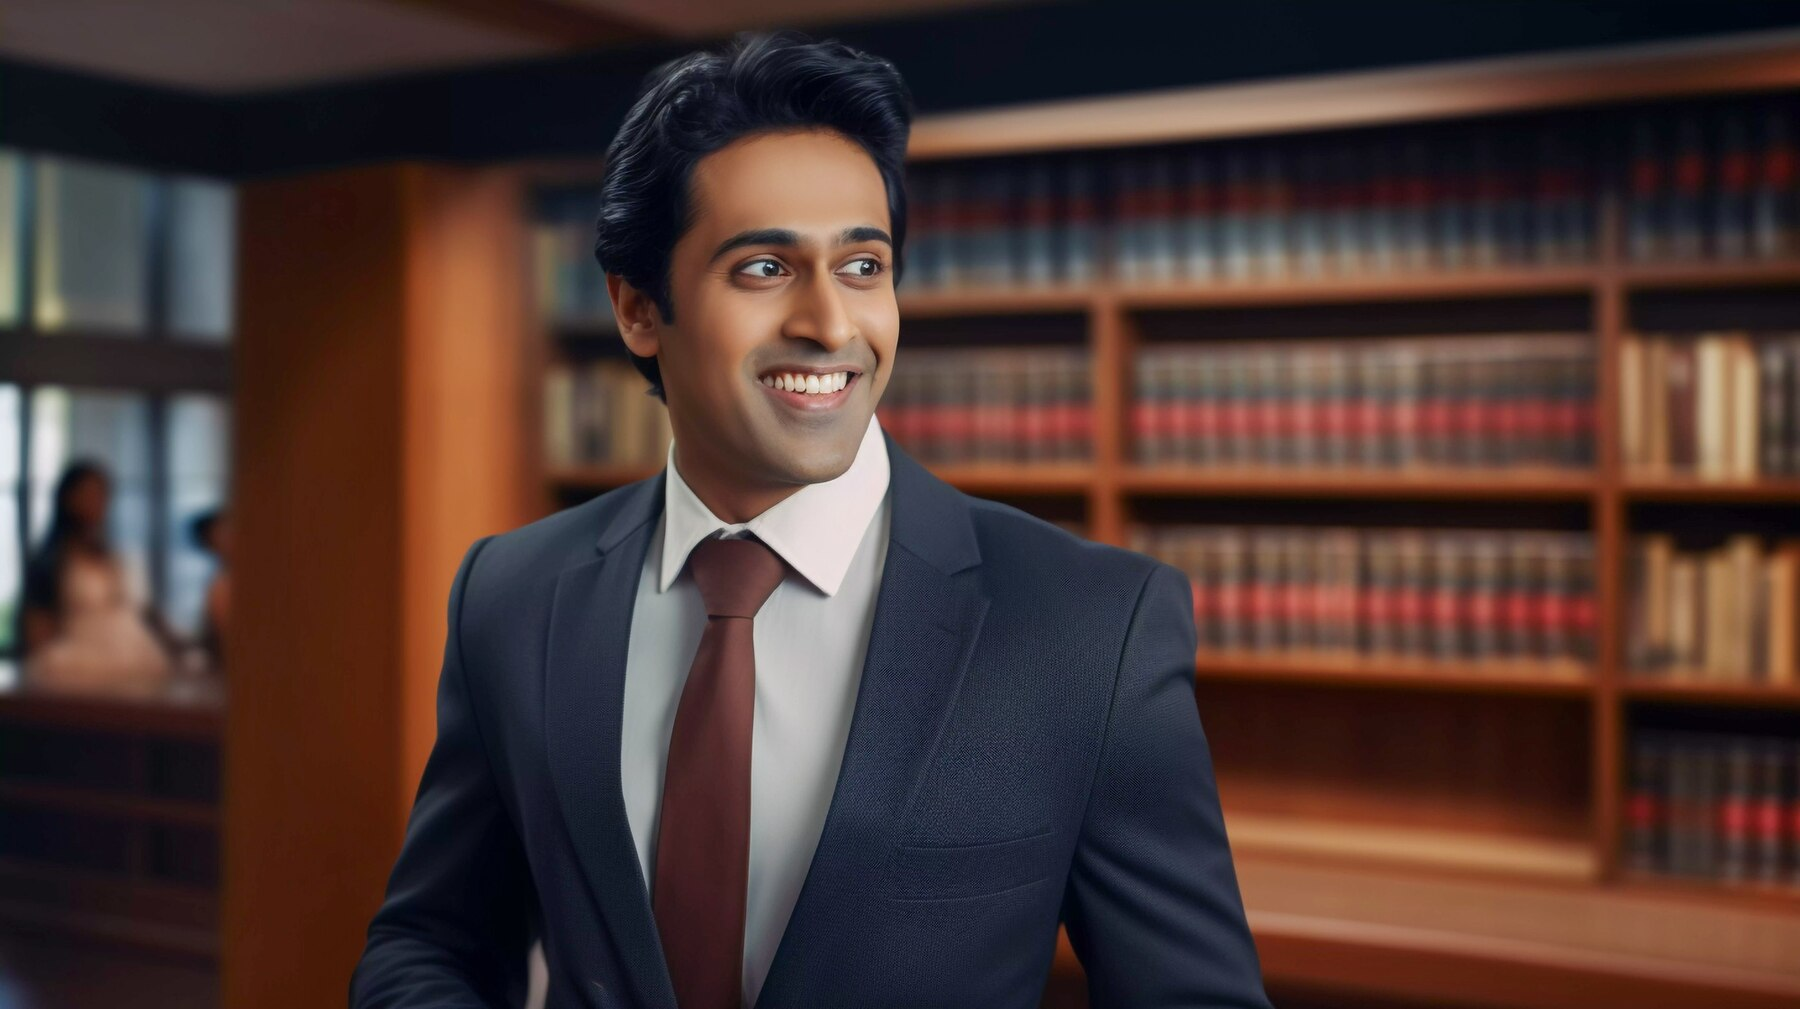
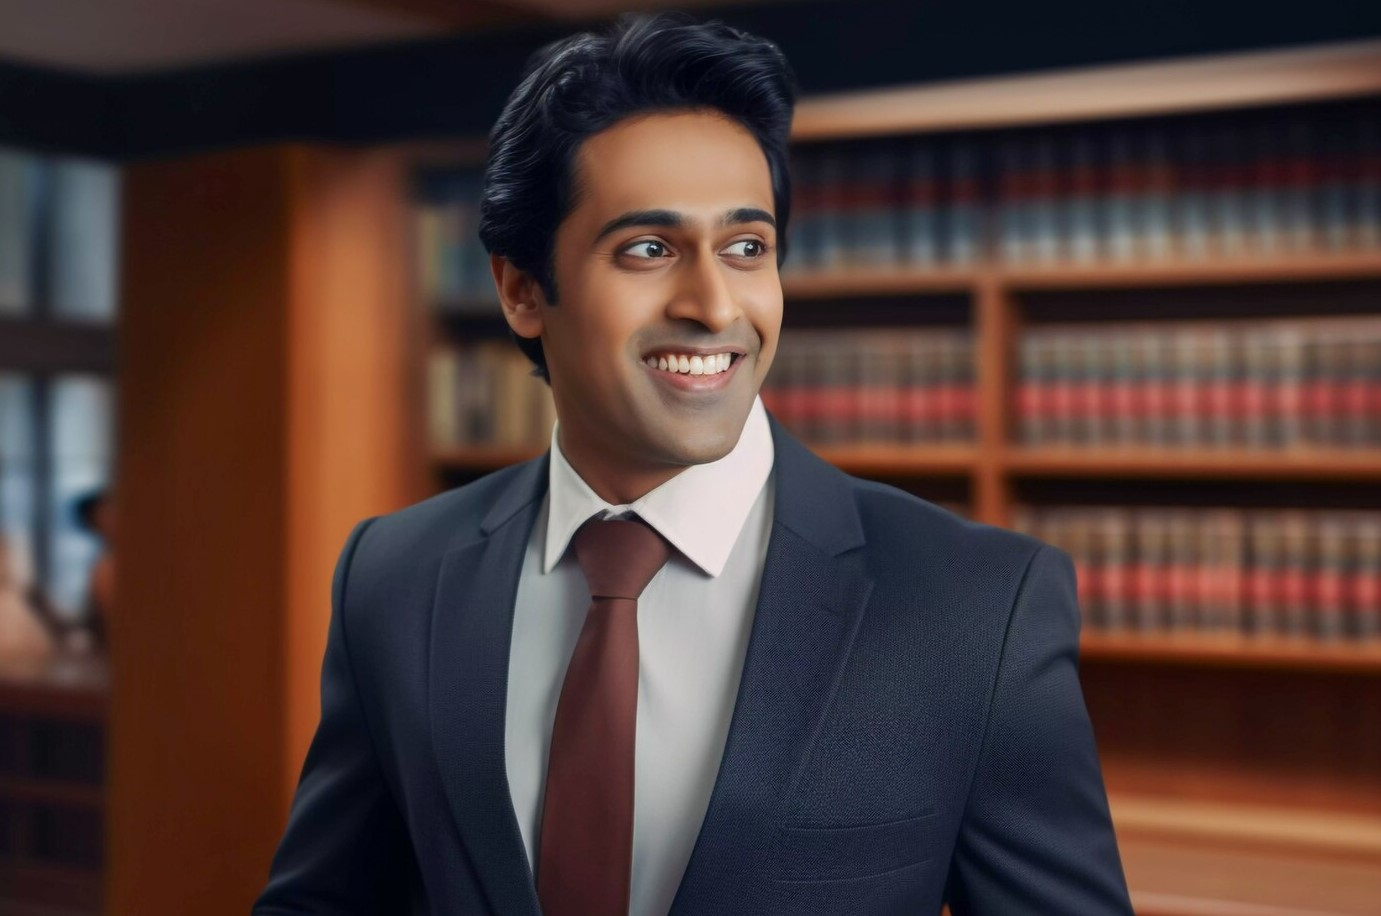
fixed latest again

diff --git a/index.html b/index.html
@@ -308,11 +308,7 @@
 
             <!-- Image Section -->
             <div class="col-lg-6 d-flex justify-content-center align-items-center">
-                <img src="img/lawyer.jpg" alt="Program Image" class="img-fluid rounded shadow-lg" style="
-                    max-width: 80%; /* Smaller image */
-                    height: auto;
-                    object-fit: contain;
-                ">
+                <img src="img/lawyer.jpg" alt="Program Image" class="img-fluid rounded shadow-lg" style="object-fit: cover;">
             </div>
         </div>
 
@@ -336,6 +332,7 @@
         </div>
     </div>
 </div>
+
 <!-- Program End -->
 
 
